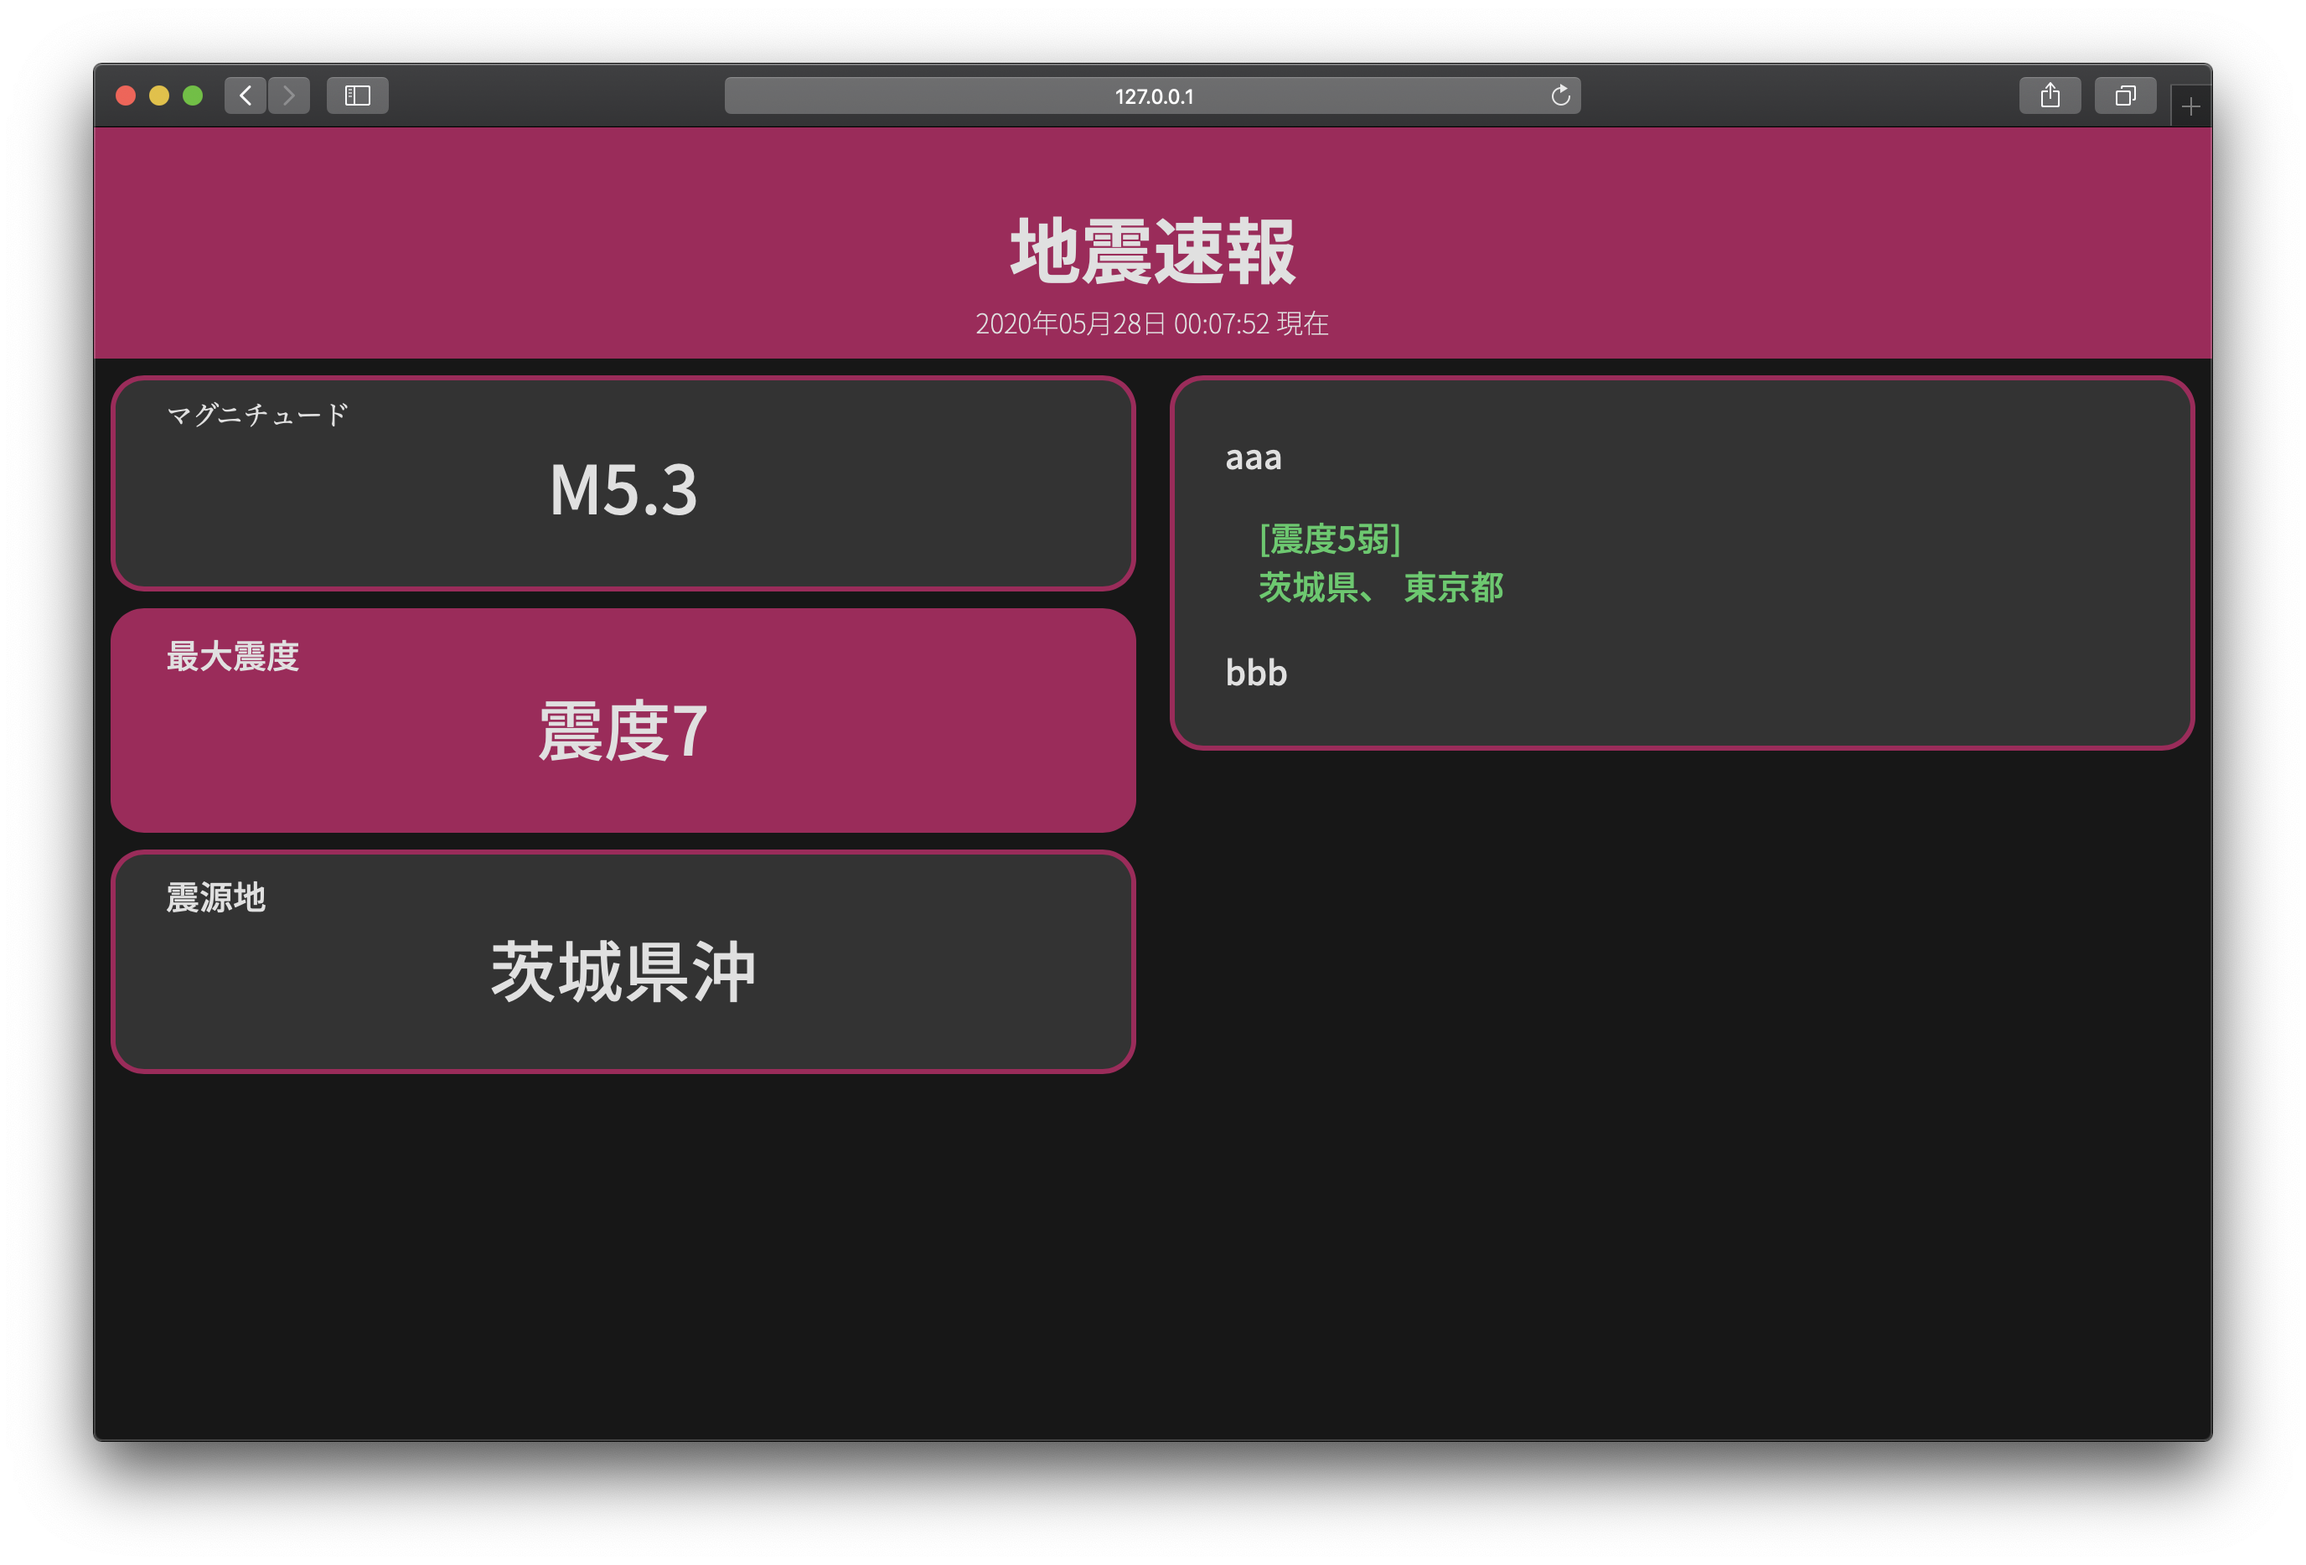
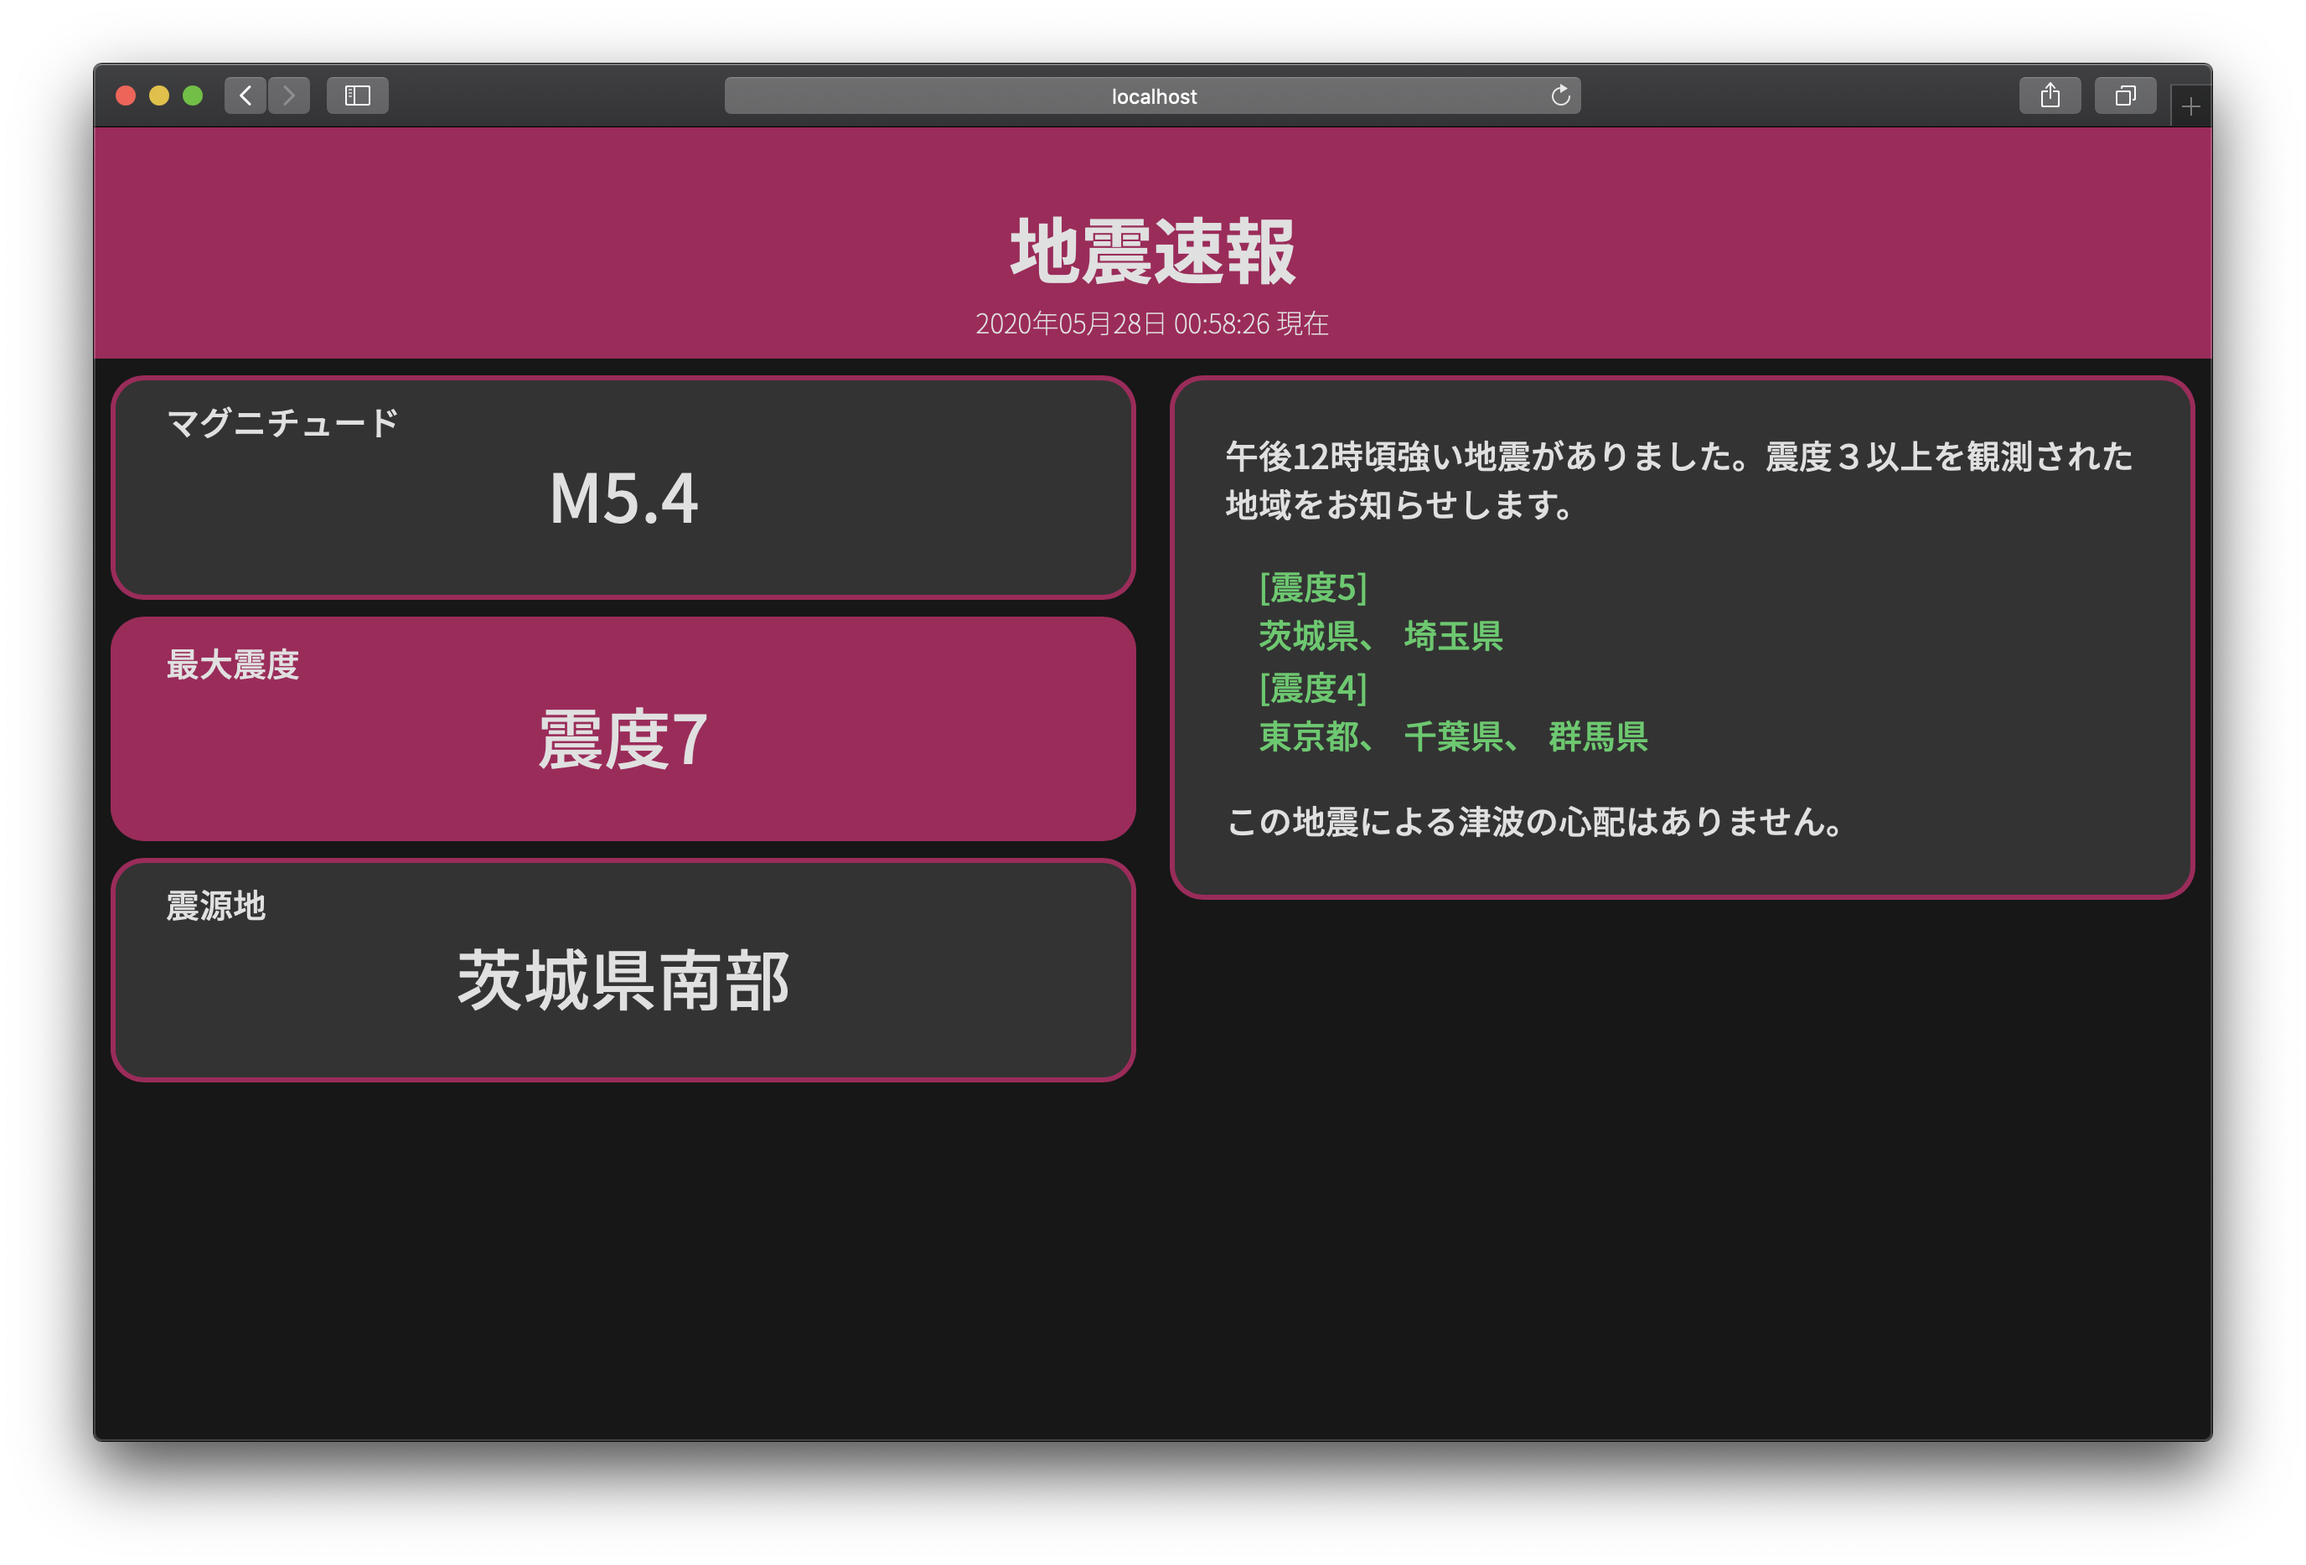
bug fix.

diff --git a/src/templates/index.html b/src/templates/index.html
@@ -21,7 +21,7 @@
     <main>
         <div class="box">
             <div class="magnitude {{ seismic }}">
-                <div calss="comment">マグニチュード</div>
+                <div class="comment">マグニチュード</div>
                 <div class="contents">M{{ magnitude }}</div>
             </div>
             <div class="max-seismic-intensity fill {{ seismic }}">
